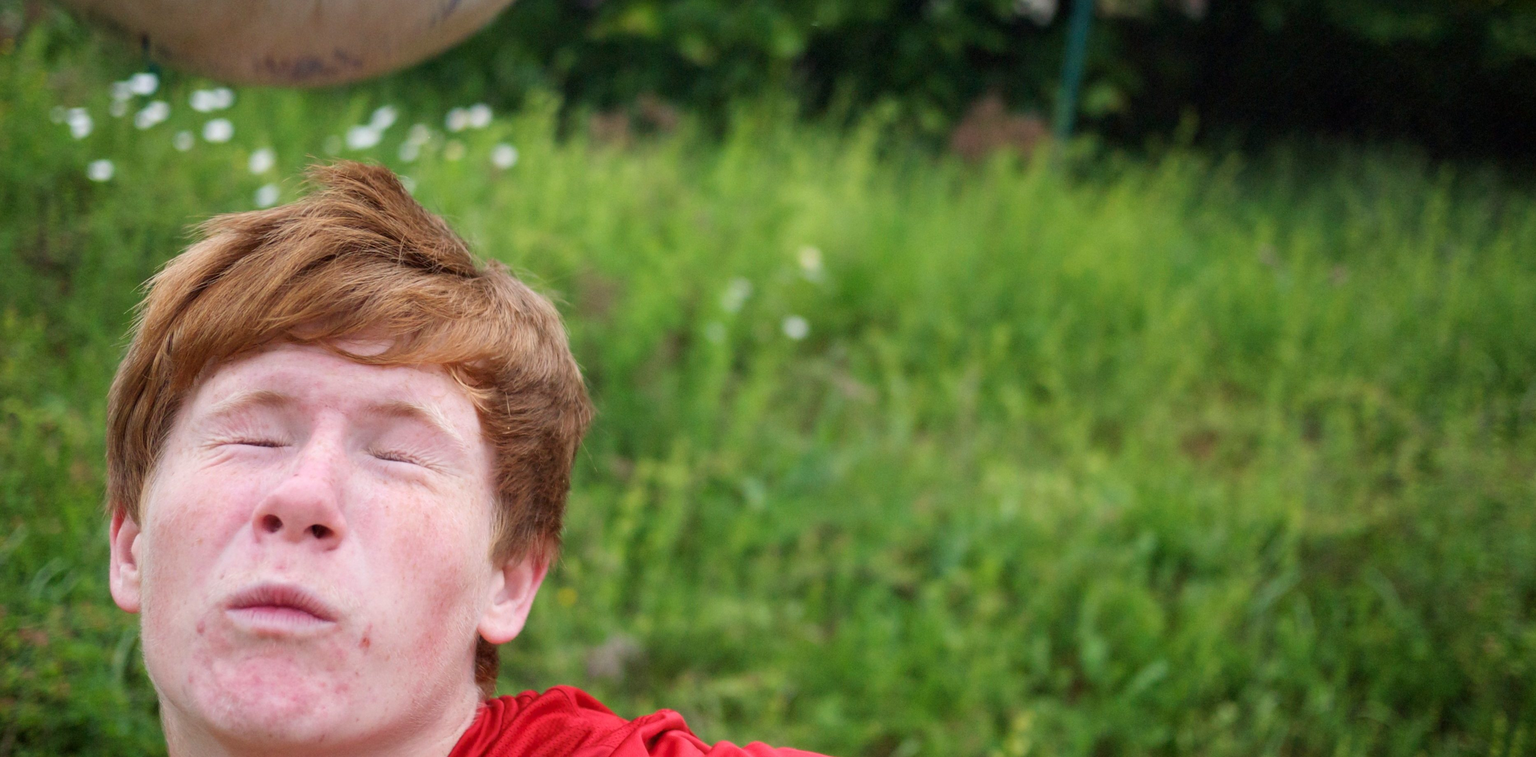
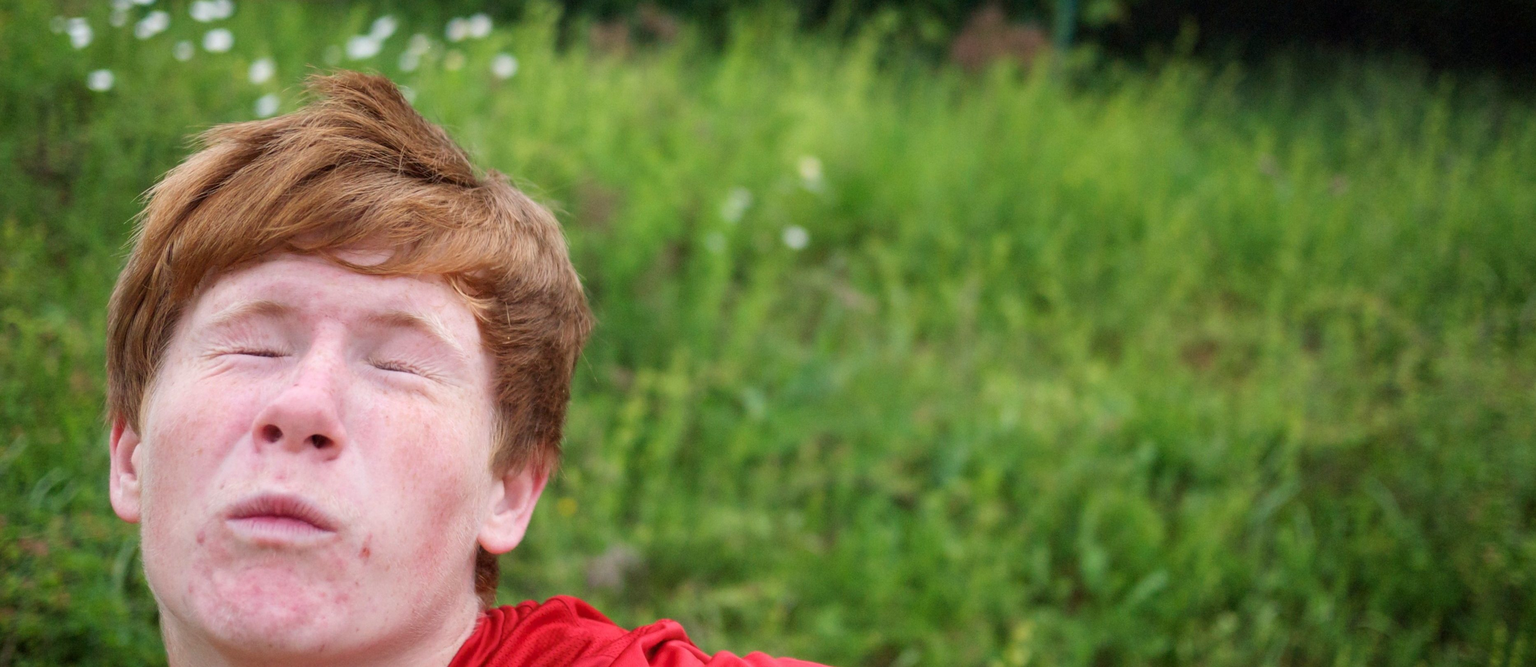
Přestylovaná titulka.

diff --git a/index.html b/index.html
@@ -1,66 +1,46 @@
 ---
-layout: titulka
+layout: homepage
 ---
-<div class="page-header">
-    <h2>Projekty</h1>
+<div class="masthead">
+    <div class="container">
+        <div class="ball"></div>
+        <div class="type">
+            <h1>Žijeme hrou</h1>
+            <p class="subtitle">Chceme hodnotnější pojetí sportu, ve kterém se na první
+            místo vrací prožitek sportovce, zábava a osobní rozvoj. Chceme sport, který
+            přispívá ke zdravější společnosti.</p>
+        </div>
+    </div>
 </div>
-<div class="row projekty">
-    <div class="col-sm-4">
-        <a href="/souteze/">
-            <div class="border">
-                <img src="/img/souteze.jpg" class="img-circle" alt="">
+
+<div class="container projects">
+    <div class="col col-side">
+        <h2>Projekty</h2>
+    </div><div class="col col-main">
+        <h3><a href="/souteze/">Soutěže</a></h3>
+        <p>Sportovní soutěže jako ideální příležitost k osobnímu prožitku a rozvoji;
+        sport jako společenská aktivita.</p>
+        <h3><a href="/akademie/">Fotbalová akademie</a></h3>
+        <p>Moderní fotbalový program pro malé fotbalisty a jejich kluby i rodiče.</p>
+        <h3><a href="/koucovani/">Koučování</a></h3>
+        <p>Osobní služby v oblasti koučování, mentorování, lektorování a sportovního
+        tréninku.</p>
+    </div>
+</div>
+
+<hr>
+
+<div class="container blog">
+    <div class="col col-side">
+        <h2>Blog</h2>
+    </div><div class="col col-main blog-roll">
+        {% for post in site.posts %}
+            <div class="post-preview">
+                <h3><a href="{{ post.url }}">{{ post.title }}</a></h3>
+                <p>{{ post.excerpt | strip_html }}</p>
             </div>
-            <h3>Soutěže</h3>
-            <p>Sportovní soutěže jako ideální příležitost k osobnímu prožitku a
-            rozvoji; sport jako společenská aktivita.</p>
-        </a>
-    </div>
-    <div class="col-sm-4">
-        <a href="/koucovani/">
-            <div class="border">
-                <img src="/img/koucovani.jpg" class="img-circle" alt="">
-            </div>
-            <h3>Koučování</h3>
-            <p>Osobní služby v oblasti koučování, mentorování, lektorování a sportovního tréninku.</p>
-        </a>
-    </div>
-    <div class="col-sm-4">
-        <a href="/blog/">
-            <div class="border">
-                <img src="/img/blok.jpg" class="img-circle" alt="">
-            </div>
-            <h3>Blog</h3>
-            <p>Metodické materiály a informace o námi pořádaných soutěžích a kurzech.</p>
-        </a>
+        {% endfor %}
     </div>
 </div>
-<div class="container">
-<div class="page-header">
-    <h2>Partneři</h1>
-</div>
-<div class="row partneri">
-    <div class="col-md-3">
-        <a href="http://www.coerver.cz/">
-            <img src="/img/coerver.png" class="img-thumbnail" alt="Coerver Coaching">
-        </a>
-        <p>Coerver Coaching</p>
-    </div>
-    <div class="col-md-3">
-        <a href="http://www.akademiefotbalu.cz/">
-            <img src="/img/akademie.png" class="img-thumbnail" alt="Česká fotbalová akademie">
-        </a>
-        <p>Česká fotbalová akademie</p>
-    </div>
-    <div class="col-md-3">
-        <a href="http://www.fstrebic.cz/">
-            <img src="/img/trebic.png" class="img-thumbnail" alt="Fotbalová škola Třebíč">
-        </a>
-        <p>Fotbalová škola Třebíč</p>
-    </div>
-    <div class="col-md-3">
-        <a href="http://koucinkcentrum.cz/">
-            <img src="/img/kcentrum.png" class="img-thumbnail" alt="Koučink centrum">
-        </a>
-        <p>Koučink Centrum</p>
-    </div>
-</div>
+
+{% include footer.html %}

diff --git a/css/shared.css b/css/shared.css
@@ -1,0 +1,97 @@
+/* Baseline */
+
+body, h1, h2, h3, p, ul {
+    padding: 0; margin: 0;
+}
+
+/* Typo */
+
+body {
+    font-family: "Helvetica Neue", "Helvetica", sans-serif;
+    font-weight: 200;
+    font-size: 18px;
+    line-height: 1.3em;
+    background: #fff0dc;
+    color: #5e5e5e;
+    min-width: 1024px;
+}
+
+h1, h2, h3 {
+    font-weight: 100;
+    font-size: 64px;
+    line-height: 1.3em;
+    text-transform: lowercase;
+    color: #941751;
+}
+
+h3 {
+    margin-bottom: 10px;
+}
+
+p {
+    margin-bottom: 1ex;
+}
+
+a {
+    color: #005493;
+    text-decoration: none;
+}
+
+/* Layout */
+
+.container {
+    width: 1024px;
+    margin: auto;
+}
+
+.col {
+    display: inline-block;
+    vertical-align: top;
+    box-sizing: border-box;
+}
+
+.col-main {
+    width: 590px;
+}
+
+.col-side {
+    width: 434px;
+}
+
+/* Footer */
+
+.footer {
+    background: #941751;
+    color: #fff0dc;
+    padding-top: 40px;
+    padding-bottom: 40px;
+    margin-top: 40px;
+}
+
+.footer h2 {
+    display: none;
+}
+
+.footer h3 {
+    font-size: 18px;
+    font-weight: 200;
+    text-transform: uppercase;
+}
+
+.footer h3, .footer a {
+    color: #fff0dc;
+}
+
+/* Content */
+
+.list-unstyled {
+    list-style: none;
+    margin-left: 0;
+    padding-left: 0;
+}
+
+hr {
+    border: 2px dotted #ccc;
+    margin-top: 20px;
+    margin-bottom: 20px;
+}

diff --git a/_includes/footer.html b/_includes/footer.html
@@ -1,4 +1,19 @@
-<div class="footer clearfix">
-    <p class="pull-left">Naposledy aktualizováno v lednu.</p>
-    <p class="pull-right"><a href="mailto:jirka@zijemehrou.cz">jirka@zijemehrou.cz</a></p>
+<div class="footer">
+    <div class="container">
+        <h2>O nás</h2>
+        <div class="col col-side">
+            <h3>Partneři</h3>
+            <ul class="list-unstyled">
+                <li><a href="http://www.coerver.cz/">Coerver Coaching</a></li>
+                <li><a href="http://www.fstrebic.cz/">Fotbalová škola Třebíč</a></li>
+                <li><a href="http://koucinkcentrum.cz/">Koučink Centrum</a></li>
+                <li><a href="http://www.talentkouc.cz">Talent kouč</a></li>
+            </ul>
+        </div><!--
+        --><div class="col col-main">
+            <h3>Web</h3>
+            <p>naposledy aktualizováno v lednu<br>
+            <a href="mailto:jirka@zijemehrou.cz">jirka@zijemehrou.cz</a></p>
+        </div>
+    </div>
 </div>

diff --git a/css/homepage.css b/css/homepage.css
@@ -1,0 +1,66 @@
+/* Heading */
+
+.masthead {
+    margin-bottom: 20px;
+    background-image: url(/img/hero.jpg);
+    background-size: cover;
+}
+
+.masthead .container {
+    position: relative;
+    height: 425px;
+}
+
+.type {
+    position: absolute;
+    color: white;
+    top: 169px;
+    left: 433px;
+}
+
+h1 {
+    color: white;
+}
+
+p.subtitle {
+    width: 500px;
+}
+
+.ball {
+    width: 520px;
+    height: 520px;
+    position: absolute;
+    left: 340px;
+    top: -360px;
+    background-image: url(/img/balon.png);
+    background-size: cover;
+}
+
+/* Blog */
+
+.blog-roll {
+    padding-top: 10px;
+}
+
+.post-preview:not(:first-child) p {
+    display: none;
+}
+
+.post-preview h3 {
+    font-size: 18px;
+    text-transform: uppercase;
+    margin-bottom: 3px;
+    font-weight: 200;
+}
+
+.post-preview p {
+    margin-top: 7px;
+    margin-bottom: 20px;
+}
+
+/* Content */
+
+hr {
+    margin-top: 35px;
+    margin-bottom: 30px;
+}

diff --git a/_layouts/homepage.html b/_layouts/homepage.html
@@ -1,0 +1,13 @@
+<!DOCTYPE html>
+<html lang="cs">
+    <head>
+        <meta charset="utf-8">
+        <title>Žijeme hrou | Za smysluplnější sport</title>
+        <link rel="stylesheet" href="/css/shared.css">
+        <link rel="stylesheet" href="/css/homepage.css">
+    </head>
+    <body>
+        {{ content }}
+        <script src="/js/ga.js"></script>
+    </body>
+</html>

diff --git a/_layouts/koucovani.html b/_layouts/koucovani.html
@@ -9,7 +9,6 @@
         <link href="/lib/lightbox/css/lightbox.css" rel="stylesheet">
     </head>
     <body>
-        {% include navigace.html category="koucovani" %}
         <div class="huge-header">
             <div class="container">
                 <h1 class="inverse">Koučování</h1>

diff --git a/_layouts/souteze.html b/_layouts/souteze.html
@@ -9,7 +9,6 @@
         <link href="/lib/lightbox/css/lightbox.css" rel="stylesheet">
     </head>
     <body>
-        {% include navigace.html category="souteze" %}
         <div class="huge-header">
             <div class="container">
                 <h1 class="inverse">Soutěže</h1>

diff --git a/_layouts/blog-post.html b/_layouts/blog-post.html
@@ -9,7 +9,6 @@
         <link href="/style/video.css" rel="stylesheet" media="screen">
     </head>
     <body>
-        {% include navigace.html category="blog" %}
         <div class="huge-header">
             <div class="container">
                 <h1 class="inverse">Blog</h1>
